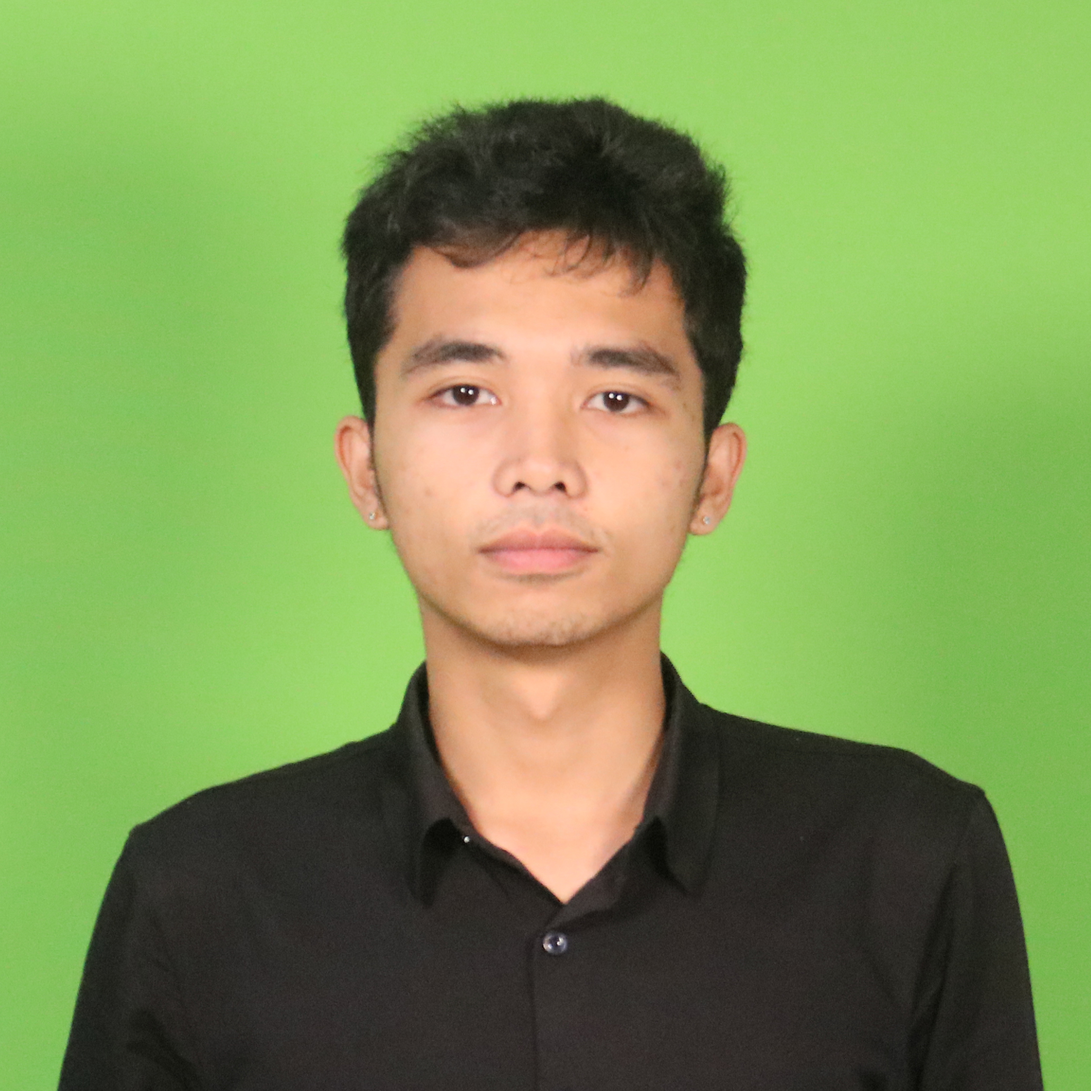
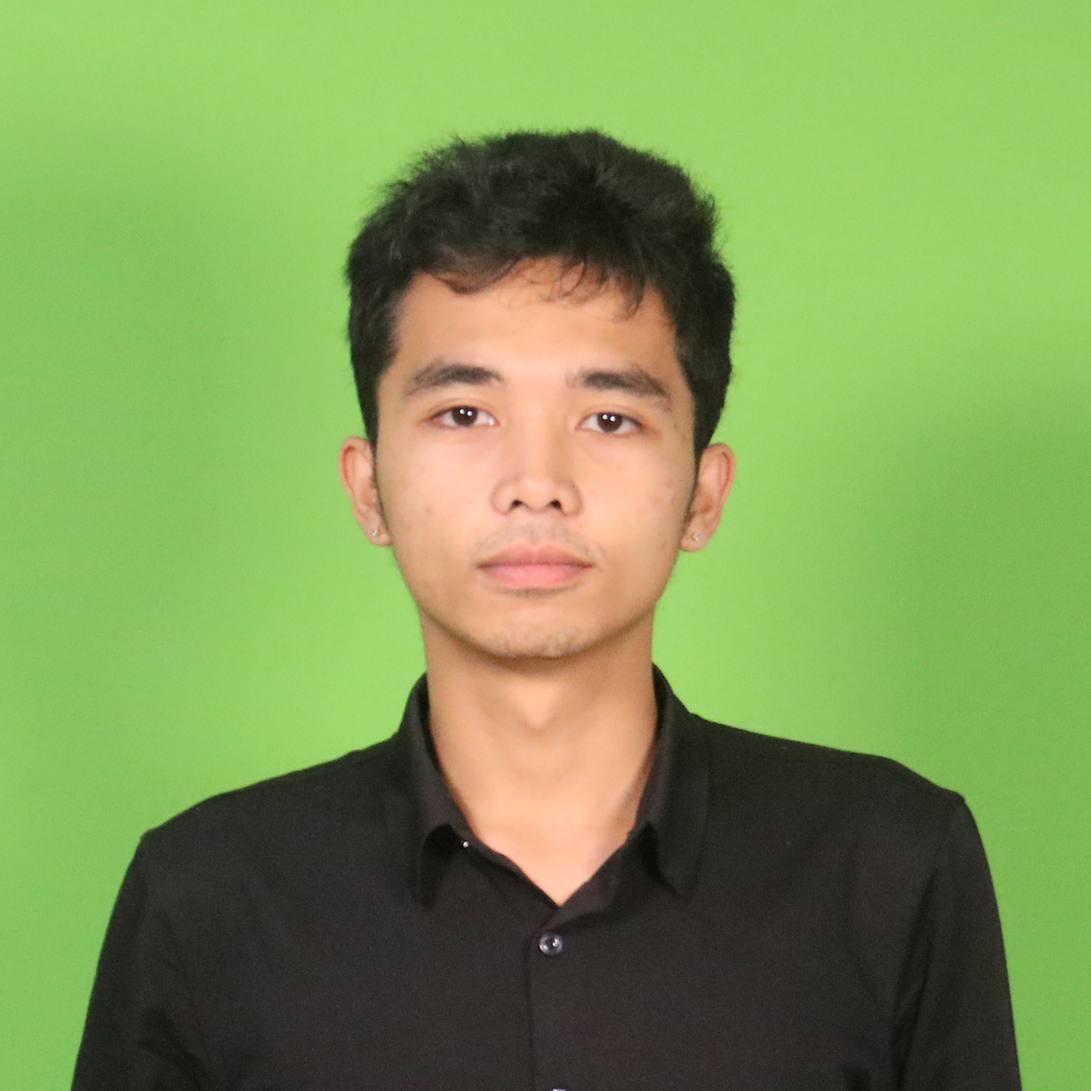
resume changes

diff --git a/index.html b/index.html
@@ -177,7 +177,7 @@
 				<div class="profile no-photo">
 
 					<!-- profile image -->
-					<div class="slide" style="background-image: url(images/IMG_20230221_191552.jpg);"></div>
+					<div class="slide" style="background-image: url(images/IMG_0278_1.jpg);"></div>
 
 					<!-- profile titles -->
 					<div class="title">Alan Oliveros</div>
@@ -572,7 +572,7 @@
 								<div class="revs-item">
 									<div class="text">
 										<div >
-											Live as if you were to die tomorrow; learn as if you were to live forever.
+											Live as if you were to die tomorrow; learn as if you were to live forever. <br>Mahatma Gandhi
 										</div>
 									</div>
 									<div class="user">
@@ -643,12 +643,20 @@
 											Demonstrated expertise in layout design and the ability to modify designs to meet client needs.
 										</p>
 									</div>
-									<div class="resume-item">
-										<div class="date">Oct 2019 - Dec 2019</div>
+									<div class="resume-item border-line-h">
+										<div class="date">Jul 2019 - Dec 2019</div>
 										<div class="name">WordPress Developer</div>
 										<div class="company">BUHIG</div>
 										<p>
 											Designed and developed a client's website blog using WordPress.
+										</p>
+									</div>
+									<div class="resume-item">
+										<div class="date">Oct 2018 - Mar 2019</div>
+										<div class="name">.NET Developer</div>
+										<div class="company">ACLC College of Bukidnon</div>
+										<p>
+											Developed an inventory system for the school library using .NET technology.
 										</p>
 									</div>
 								</div>
@@ -1354,7 +1362,7 @@
 						<div class="row">
 							<div class="col col-d-12 col-t-12 col-m-12 border-line-v">
 
-								<div class="map" id="map"></div>
+								<!--<div class="map" id="map"></div>-->
 
 								<div class="info-list">
 									<ul>
